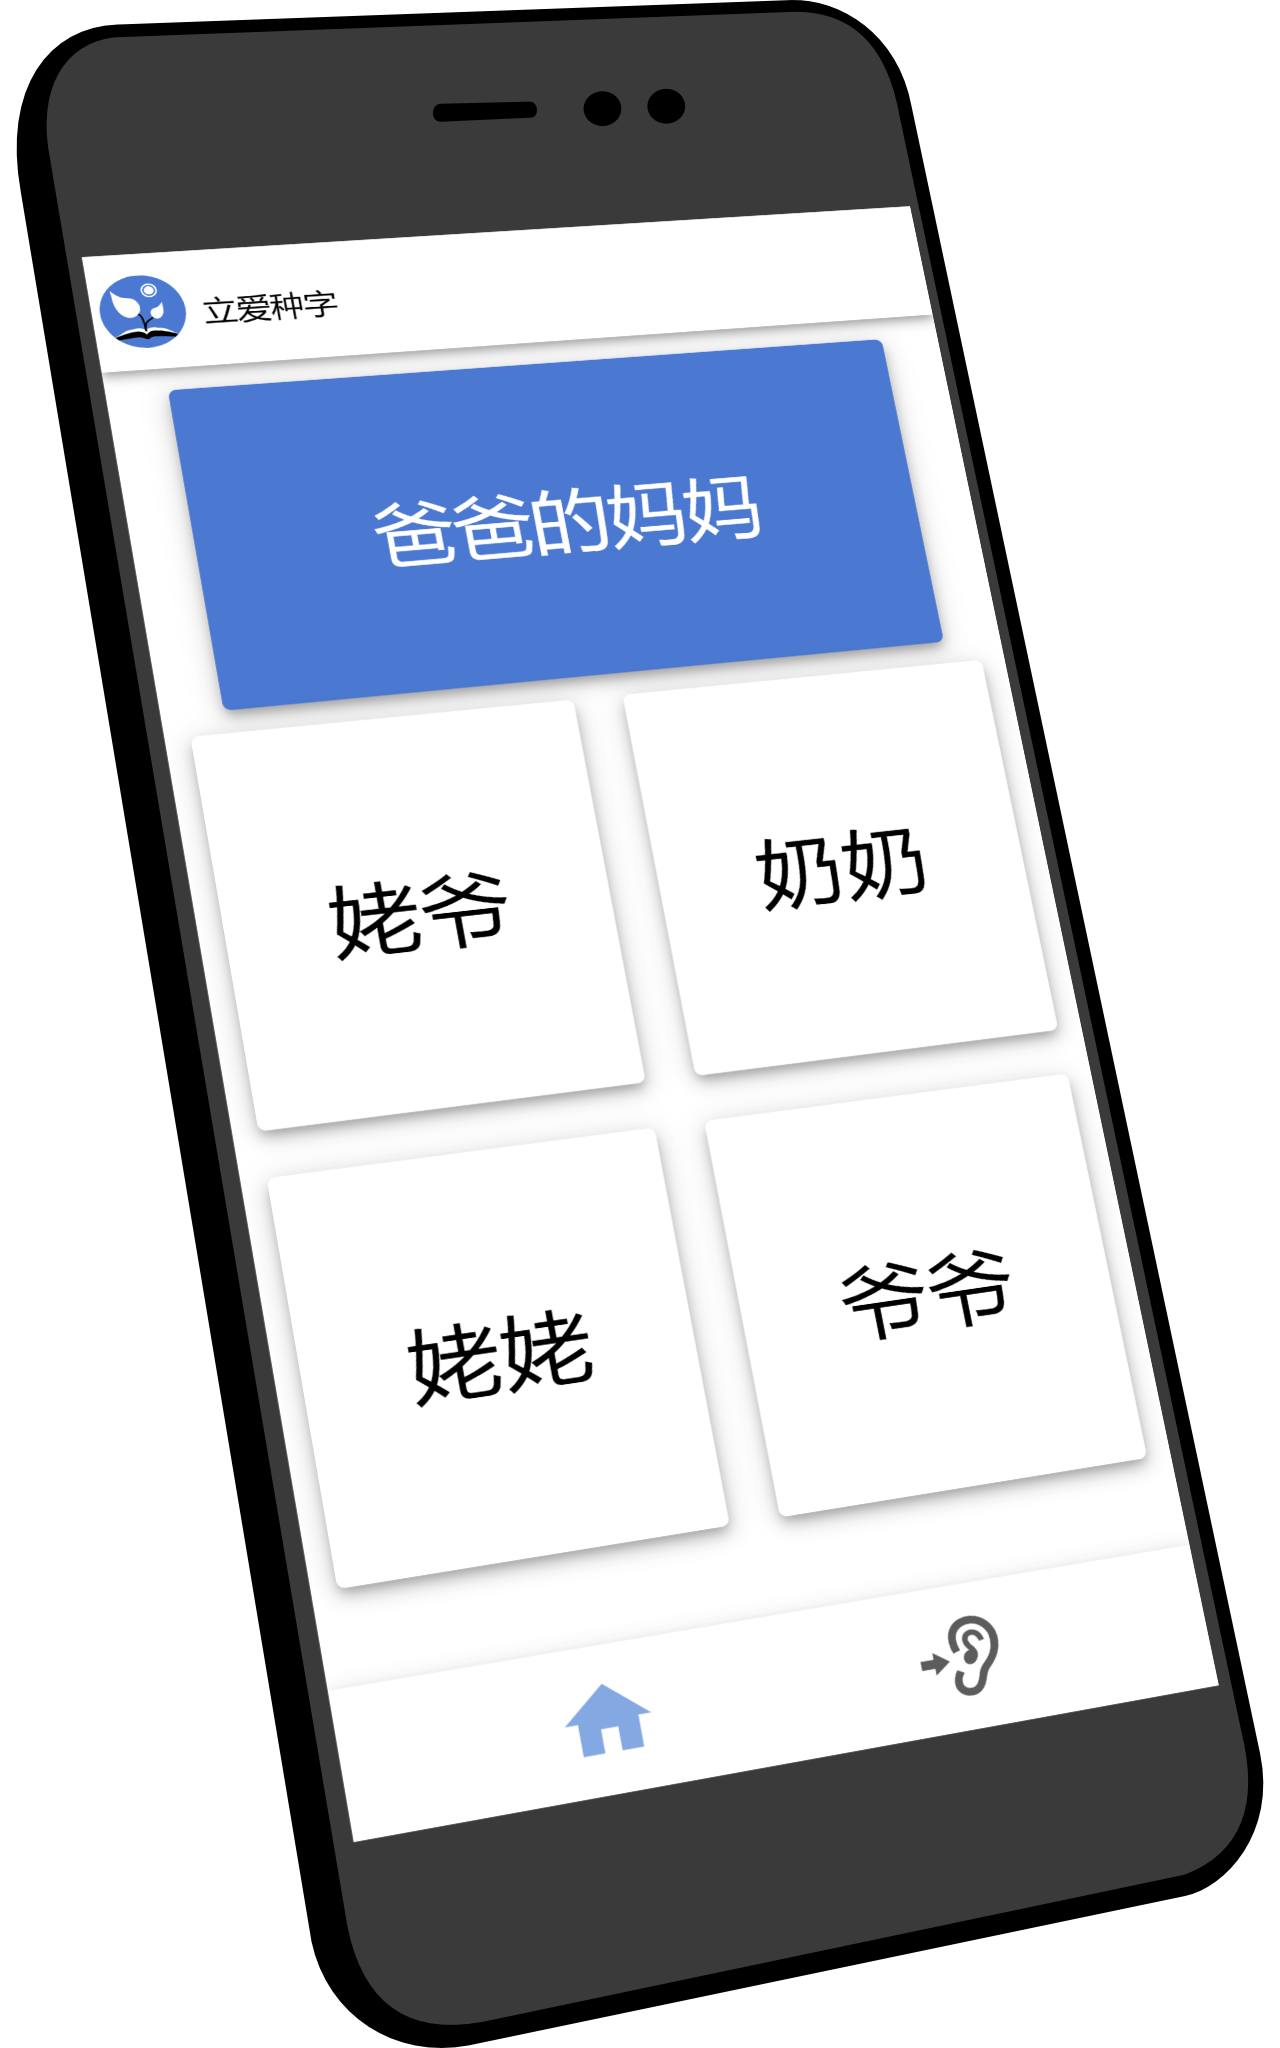
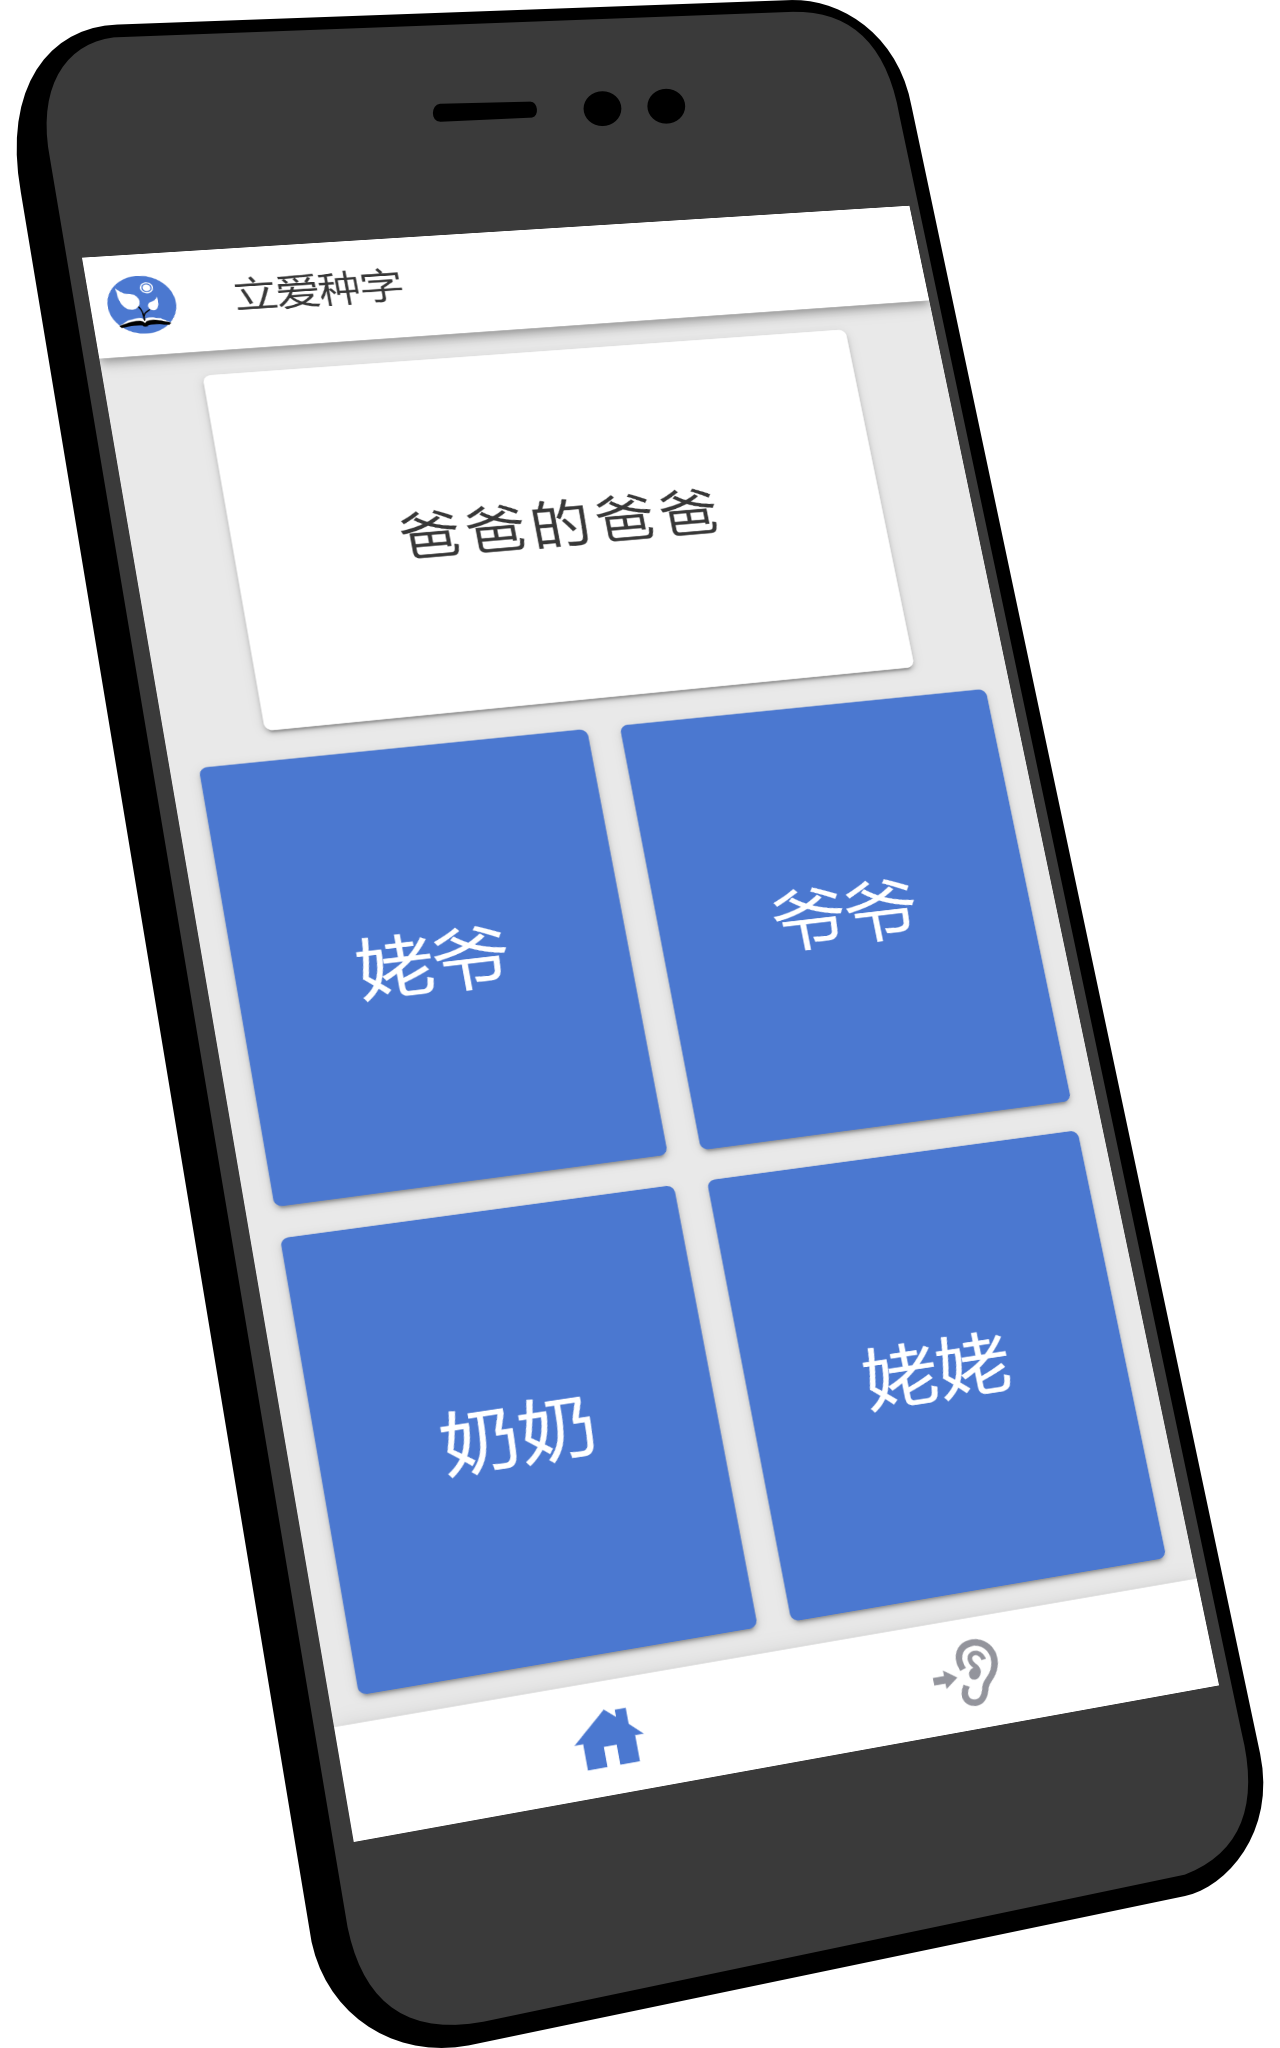
docs: Update feature screenshots and descriptions
Because we have made improvements not yet reflected in the intro,

this commit will:
- add descriptions of the review feature and the comprehension feature
- update screenshots to reflect current styling and layout

**Certification**
- [X] I certify that <!-- Check the box to certify: [X] -->
- I have read the [contributing guidelines](
  https://github.com/nodepa/seedling/blob/main/.github/CONTRIBUTING.md)
- I license these contributions to the public under Seedling's
  [LICENSE](https://github.com/nodepa/seedling/blob/main/LICENSE.md)
  and have the rights to do so.

diff --git a/docs/index.md b/docs/index.md
@@ -14,38 +14,42 @@ actions:
     type: secondary
 features:
   - title: |
-      Multiple Choice
-      Audio-to-word
-    details: Listen to the pronunciation and tap the matching word-tile
+      Find the word that matches the audio cue
+    details: Listen to the pronunciation and tap the one corresponding word-tile among multiple alternatives
     imagePath: /images/mockup-audio-multiple-choice.png
   - title: |
-      Matching
-      Audio-to-word
-    details: Match up blue audio-tiles with white word-tiles
+      Pair up words with their audio cues
+    details: Listen to the pronunciation of white picture/symbol-tiles and pair each with their corresponding blue word-tile
     imagePath: /images/mockup-audio-matching.png
   - title: |
-      Cloze
-      Single-blank
-    details: Fill-the-blank with the appropriate word
+      Fill the blank
+      (single-cloze)
+    details: Find the word that most appropriately completes the sentence among multiple alternatives
     imagePath: /images/mockup-single-cloze.png
   - title: |
-      Multiple-choice
-      Explanation-to-word
-    details: Read the explanation and choose the correct word
+      Find the word that matches the phrase
+    details: Read the explanation and tap the most closely related word-tile among multiple alternatives
     imagePath: /images/mockup-explanation-multiple-choice.png
   - title: |
-      Matching
-      Explanation-to-word
-    details: Match up blue explanation-tiles with white word-tiles
+      Pair up words with their corresponding phrases
+    details: Read the explanation of white phrase-tiles and pair each with their corresponding blue word-tile
     imagePath: /images/mockup-explanation-matching.png
   - title: |
-      Cloze
-      Multi-blank
-    details: Fill-the-blank exercise with multiple blanks and corresponding words
+      Fill multiple blanks
+      (multi-cloze)
+    details: Tap the words in the order they should be inserted to form the most comprehensible sentence
     imagePath: /images/mockup-multi-cloze.png
+  - title: |
+      Review all the words in a lesson
+    details: Listen to the pronunciation and see the characters/spelling of all the words in a lesson, one after the other
+    imagePath: /images/mockup-basic-review.png
+  - title: |
+      Show comprehension of a longer text
+    details: Read the text, answer questions about the content, practice words that are new to the lesson, then review the text.
+    imagePath: /images/mockup-comprehension.png
 
 footerHtml: true
-footer: '<a href="/privacy-policy/privacy-policy.html">Privacy policy</a><br/><br/><a href="https://nodepa.org">Copyright &copy; 2019-2022 Norwegian Development Partners</a>'
+footer: '<a href="/privacy-policy/privacy-policy.html">Privacy policy</a><br/><br/><a href="https://nodepa.org">Copyright &copy; 2019-2023 Norwegian Development Partners</a>'
 ---
 
 ## What is Seedling?
